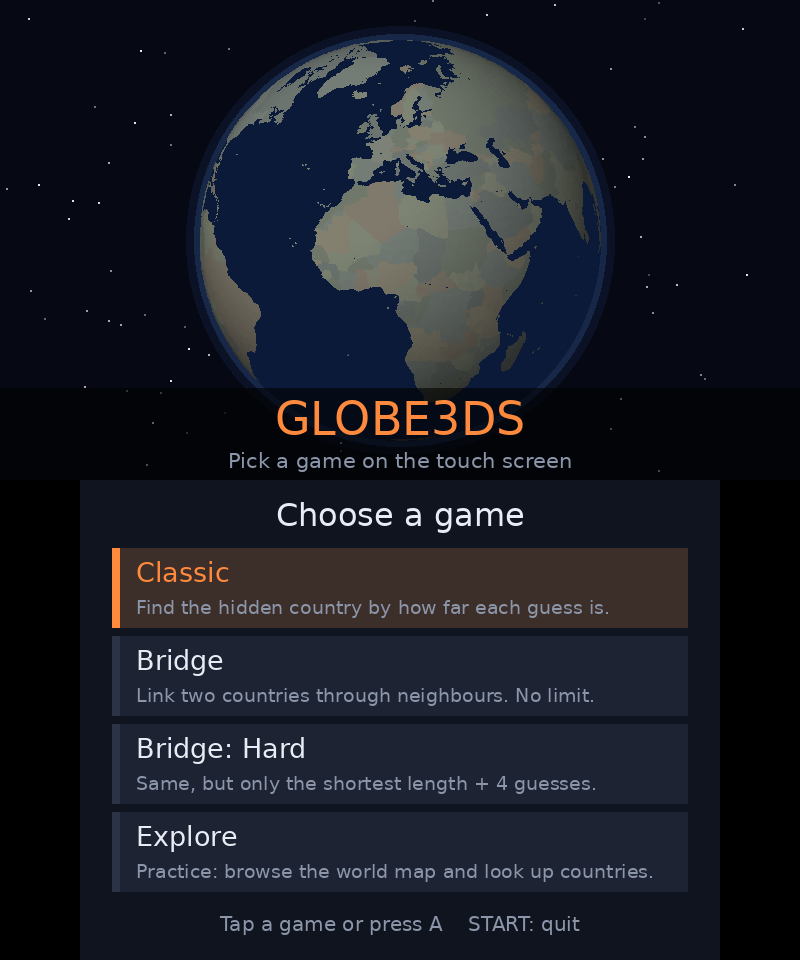
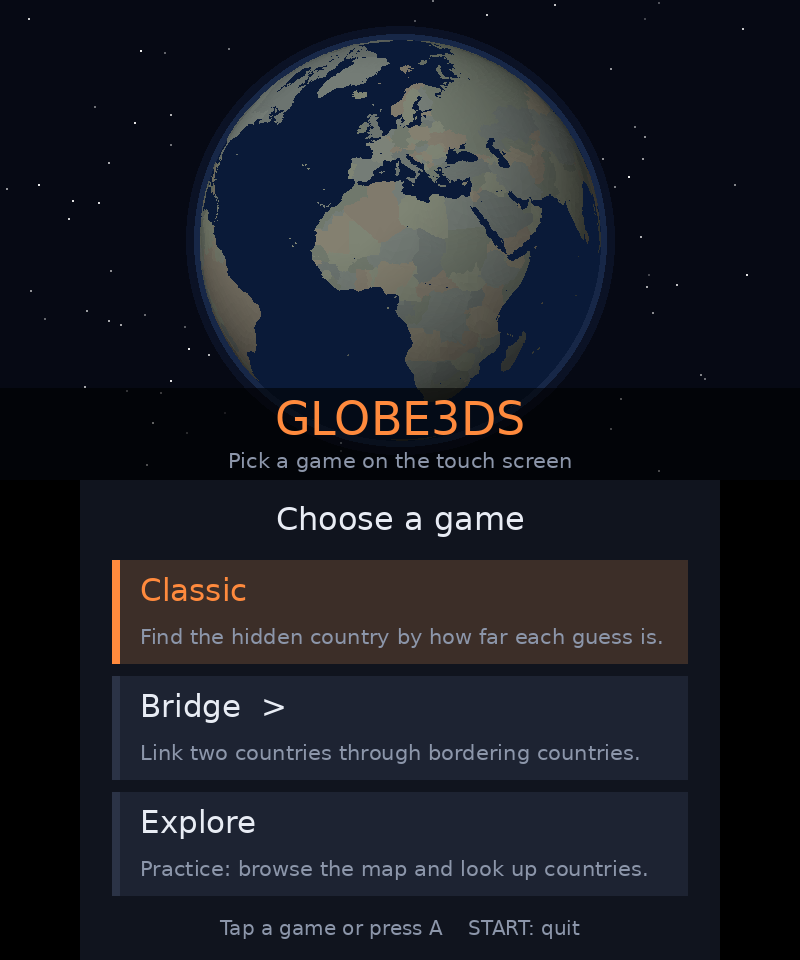
Menu: Bridge opens a Normal / Hard difficulty page
The main menu is now Classic, Bridge and Explore. Bridge leads to a
second page with Normal, Hard and Back (B also goes back). Returning
from a game resets the zoom and selects that game's menu entry.

Claude-Session: https://claude.ai/code/session_01H4xamnjMMucmCaCvZnepUW

Changed region(s): [[0.125, 0.5, 0.875, 0.9688], [0.125, 0.8125, 0.1562, 0.8438]]

diff --git a/source/main.c b/source/main.c
@@ -131,14 +131,22 @@ static int exploreSel = -1;     // country picked from the search in Explore
 static int exploreHover = -1;   // country under the crosshair
 static float hoverLat = 999, hoverLon = 999;
 
-static int menuSel = 0;
-static const char* MODE_NAMES[MODE_COUNT] = { "Classic", "Bridge", "Bridge: Hard", "Explore" };
-static const char* MODE_DESC[MODE_COUNT] = {
-	"Find the hidden country by how far each guess is.",
-	"Link two countries through neighbours. No limit.",
-	"Same, but only the shortest length + 4 guesses.",
-	"Practice: browse the world map and look up countries.",
+// Menu pages. An item either starts a game mode or opens/leaves the Bridge page.
+enum { MENU_BRIDGE = -1, MENU_BACK = -2 };
+typedef struct { const char* name; const char* desc; int action; } MenuItem;
+static const MenuItem MAIN_MENU[] = {
+	{ "Classic", "Find the hidden country by how far each guess is.", MODE_CLASSIC },
+	{ "Bridge", "Link two countries through bordering countries.", MENU_BRIDGE },
+	{ "Explore", "Practice: browse the map and look up countries.", MODE_EXPLORE },
 };
+static const MenuItem BRIDGE_MENU[] = {
+	{ "Normal", "No guess limit. Keep going until the bridge is built.", MODE_BRIDGE },
+	{ "Hard", "Only the shortest bridge length + 4 guesses.", MODE_BRIDGE_HARD },
+	{ "Back", "Return to the list of games.", MENU_BACK },
+};
+#define MENU_ITEMS 3
+static bool bridgePage = false;
+static int menuSel = 0;
 static GlobeView view;
 static BottomView bottomView = VIEW_KEYBOARD;
 static u32 countryColor[512];
@@ -266,6 +274,9 @@ static void new_game(GameMode mode)
 static void open_menu(void)
 {
 	inMenu = true;
+	bridgePage = false;
+	view.zoom = 1.0f;
+	menuSel = is_bridge(game.mode) ? 1 : (game.mode == MODE_EXPLORE ? 2 : 0);
 	bottomView = VIEW_KEYBOARD;
 	confirmGiveUp = false;
 	refresh_colors();
@@ -720,16 +731,27 @@ static void draw_result_view(void)
 
 static void draw_menu_view(void)
 {
-	text(160, 6, 0.62f, CLR_TEXT, C2D_AlignCenter, "Choose a game");
-	for (int i = 0; i < MODE_COUNT; i++) {
-		float y = 34 + i * 44;
+	const MenuItem* items = bridgePage ? BRIDGE_MENU : MAIN_MENU;
+	text(160, 8, 0.62f, CLR_TEXT, C2D_AlignCenter, bridgePage ? "Bridge: choose a difficulty" : "Choose a game");
+	for (int i = 0; i < MENU_ITEMS; i++) {
+		float y = 40 + i * 58;
 		bool sel = i == menuSel;
-		C2D_DrawRectSolid(16, y, 0.5f, 288, 40, sel ? RGBA(60, 46, 40, 255) : CLR_PANEL);
-		C2D_DrawRectSolid(16, y, 0.55f, 4, 40, sel ? CLR_ACCENT : CLR_KEY);
-		text(28, y + 2, 0.52f, sel ? CLR_ACCENT : CLR_TEXT, 0, "%s", MODE_NAMES[i]);
-		text_fit(28, y + 22, 0.38f, 270, CLR_DIM, 0, MODE_DESC[i]);
+		C2D_DrawRectSolid(16, y, 0.5f, 288, 52, sel ? RGBA(60, 46, 40, 255) : CLR_PANEL);
+		C2D_DrawRectSolid(16, y, 0.55f, 4, 52, sel ? CLR_ACCENT : CLR_KEY);
+		text(30, y + 4, 0.6f, sel ? CLR_ACCENT : CLR_TEXT, 0, "%s%s", items[i].name,
+		     items[i].action == MENU_BRIDGE ? "  >" : "");
+		text_fit(30, y + 30, 0.42f, 266, CLR_DIM, 0, items[i].desc);
 	}
-	text(160, 214, 0.4f, CLR_DIM, C2D_AlignCenter, "Tap a game or press A    START: quit");
+	text(160, 216, 0.4f, CLR_DIM, C2D_AlignCenter,
+	     bridgePage ? "Tap or press A    B: back" : "Tap a game or press A    START: quit");
+}
+
+static void menu_activate(int i)
+{
+	int action = (bridgePage ? BRIDGE_MENU : MAIN_MENU)[i].action;
+	if (action == MENU_BRIDGE) { bridgePage = true; menuSel = 0; }
+	else if (action == MENU_BACK) { bridgePage = false; menuSel = 1; }
+	else new_game((GameMode)action);
 }
 
 static void draw_bottom(void)
@@ -757,8 +779,8 @@ static void handle_touch(touchPosition t, u32 kDown, u32 kHeld)
 	}
 	if (!(kDown & KEY_TOUCH)) return;
 	if (inMenu) {
-		for (int i = 0; i < MODE_COUNT; i++)
-			if (in_rect(t, 16, 34 + i * 44, 288, 40)) { menuSel = i; new_game((GameMode)i); }
+		for (int i = 0; i < MENU_ITEMS; i++)
+			if (in_rect(t, 16, 40 + i * 58, 288, 52)) { menuSel = i; menu_activate(i); return; }
 		return;
 	}
 	if (game.won || game.gaveUp) {
@@ -812,9 +834,10 @@ int main(int argc, char* argv[])
 
 		if (inMenu) {
 			if (kDown & KEY_START) break;
-			if (kDown & KEY_DUP) menuSel = (menuSel + MODE_COUNT - 1) % MODE_COUNT;
-			if (kDown & KEY_DDOWN) menuSel = (menuSel + 1) % MODE_COUNT;
-			if (kDown & KEY_A) new_game((GameMode)menuSel);
+			if (kDown & KEY_DUP) menuSel = (menuSel + MENU_ITEMS - 1) % MENU_ITEMS;
+			if (kDown & KEY_DDOWN) menuSel = (menuSel + 1) % MENU_ITEMS;
+			if ((kDown & KEY_B) && bridgePage) { bridgePage = false; menuSel = 1; }
+			if (kDown & KEY_A) menu_activate(menuSel);
 			else handle_touch(touch, kDown, kHeld);
 			goto globe_controls;
 		}

diff --git a/README.md b/README.md
@@ -4,7 +4,7 @@ Nintendo 3DS homebrew country games on a spinning 3D globe. Pick a game from the
 
 - **Classic:** a country is hidden somewhere on the globe, and you find it by guessing. Every guess is
   painted in a colour that shows how close it is. Icy blue means far away, orange and red mean you're getting warm.
-- **Bridge** and **Bridge: Hard:** you get a start country and a goal country, and you build a bridge between them out of
+- **Bridge** (pick Normal or Hard): you get a start country and a goal country, and you build a bridge between them out of
   countries that share land borders.
 - **Explore:** a practice map. Browse a colourful political map of the world, see which country is under the
   crosshair, and type a country to fly to it and see its neighbours.
@@ -28,8 +28,8 @@ Nintendo 3DS homebrew country games on a spinning 3D globe. Pick a game from the
 - Guess countries in any order. Each one is coloured by how useful it is:
   **green** is on a shortest route, **yellow** is close to one (a route at most two countries longer), and **red** is off route.
 - The bridge is built as soon as your guesses link the start to the goal through shared borders.
-- **Bridge** (normal) has no guess limit: keep going until the bridge is built.
-- **Bridge: Hard** gives you only the shortest bridge length plus 4 guesses. Run out and one shortest route is shown.
+- **Normal** has no guess limit: keep going until the bridge is built.
+- **Hard** gives you only the shortest bridge length plus 4 guesses. Run out and one shortest route is shown.
 - Either way, SELECT twice gives up and shows a shortest route.
 - Only land borders count. Borders that exist only through overseas territories (France with Brazil and Suriname)
   don't count, and small territories such as Hong Kong aren't used.
